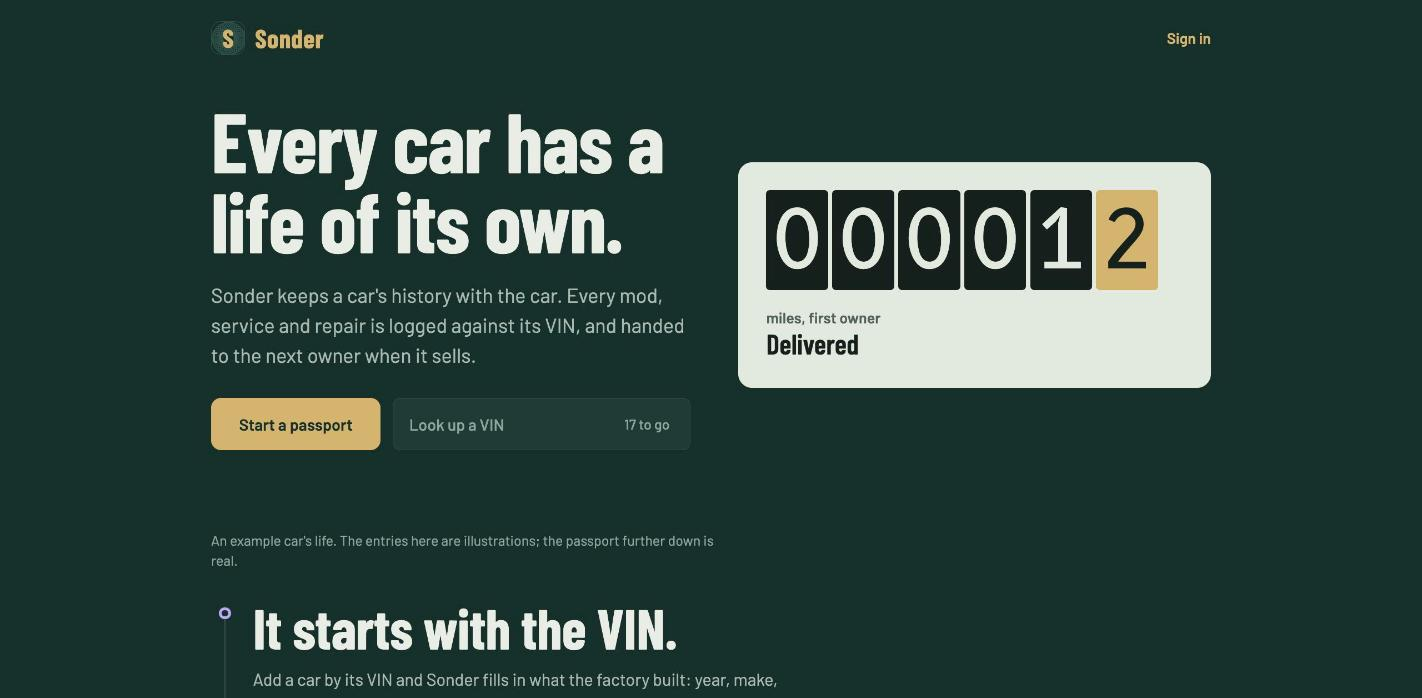
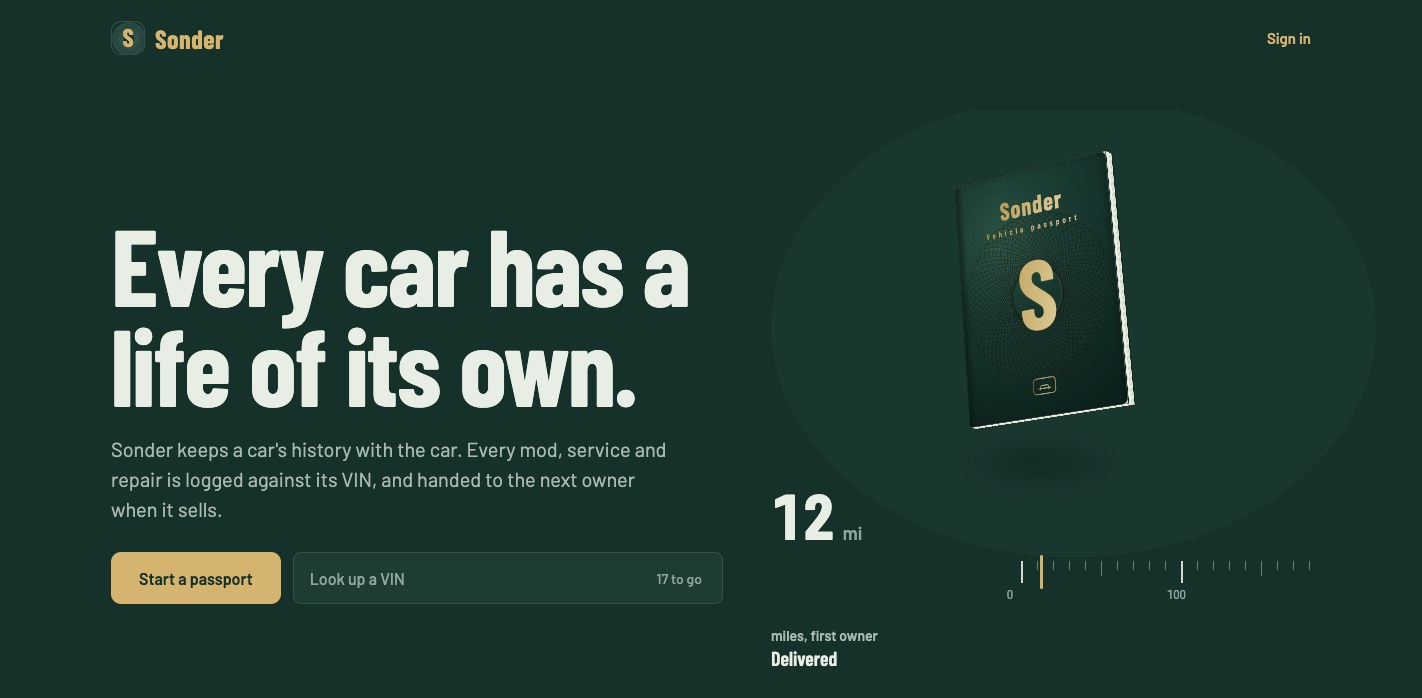
Refresh the Sonder preview with the redesigned home page

diff --git a/index.html b/index.html
@@ -225,7 +225,7 @@
           <figure class="pj-view is-active" data-view="sonder" style="--pc:#e0b457">
             <div class="pj-frame">
               <div class="pj-frame-bar"><i></i><i></i><i></i><span>imsonder.com</span></div>
-              <img src="assets/projects/sonder-home.jpg" alt="Sonder&#x27;s home page: every car has a life of its own, with a mileage odometer and a start-a-passport button" width="1280" height="628" loading="lazy" />
+              <img src="assets/projects/sonder-home.jpg" alt="Sonder&#x27;s home page: every car has a life of its own, with a 3D vehicle passport, a mileage odometer and a start-a-passport button" width="1280" height="628" loading="lazy" />
             </div>
             <span class="pj-chip pj-chip-a">Live at imsonder.com</span>
             <span class="pj-chip pj-chip-b">Row-level security</span>
